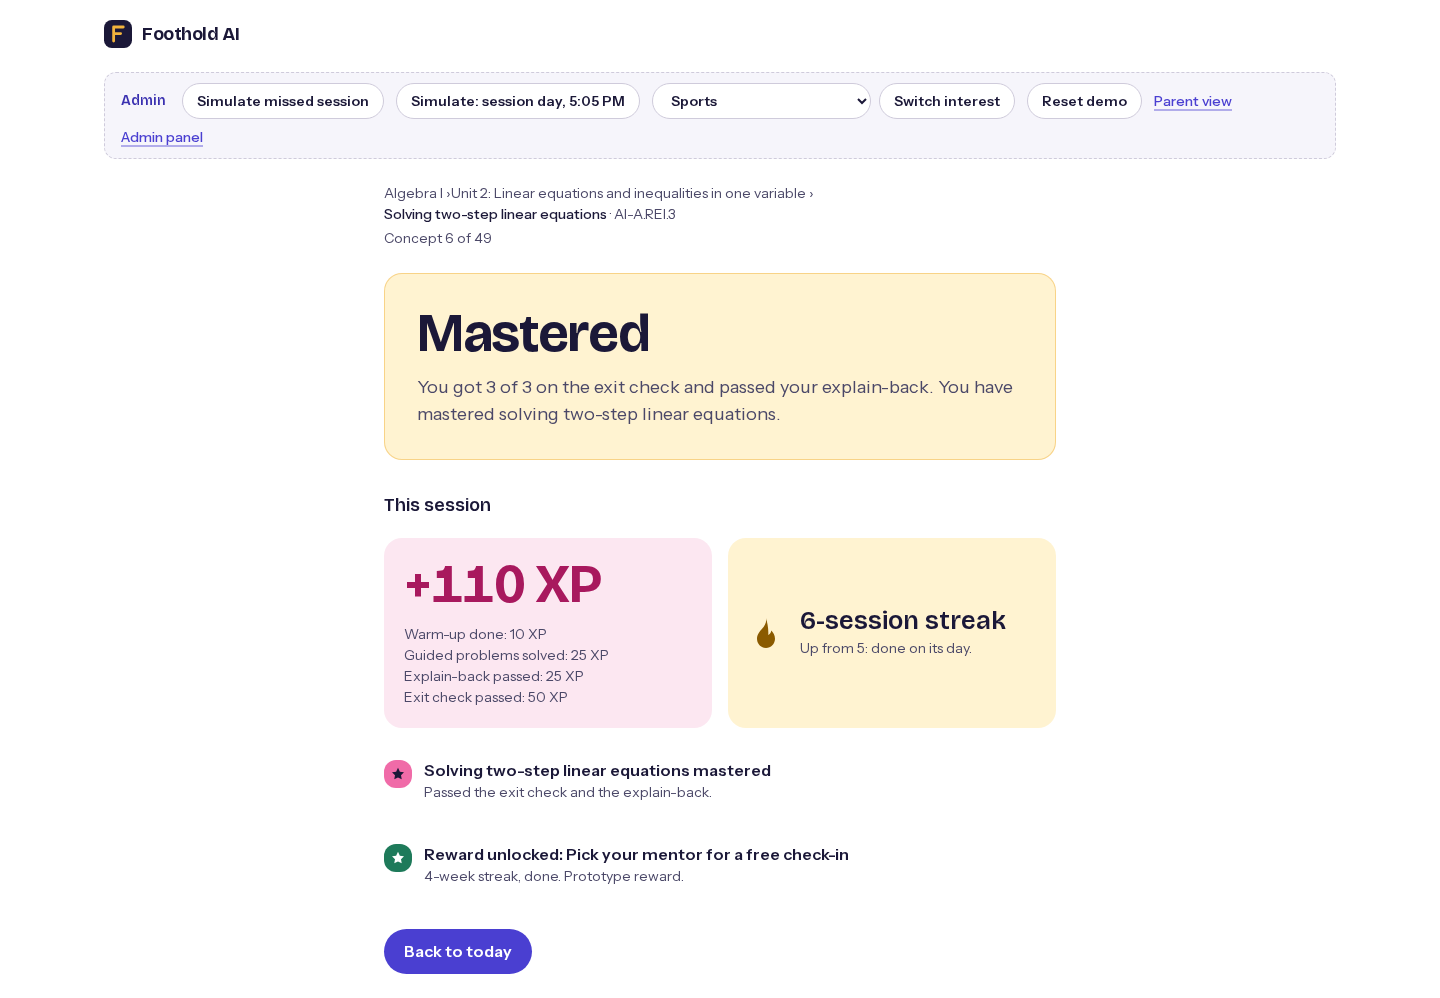
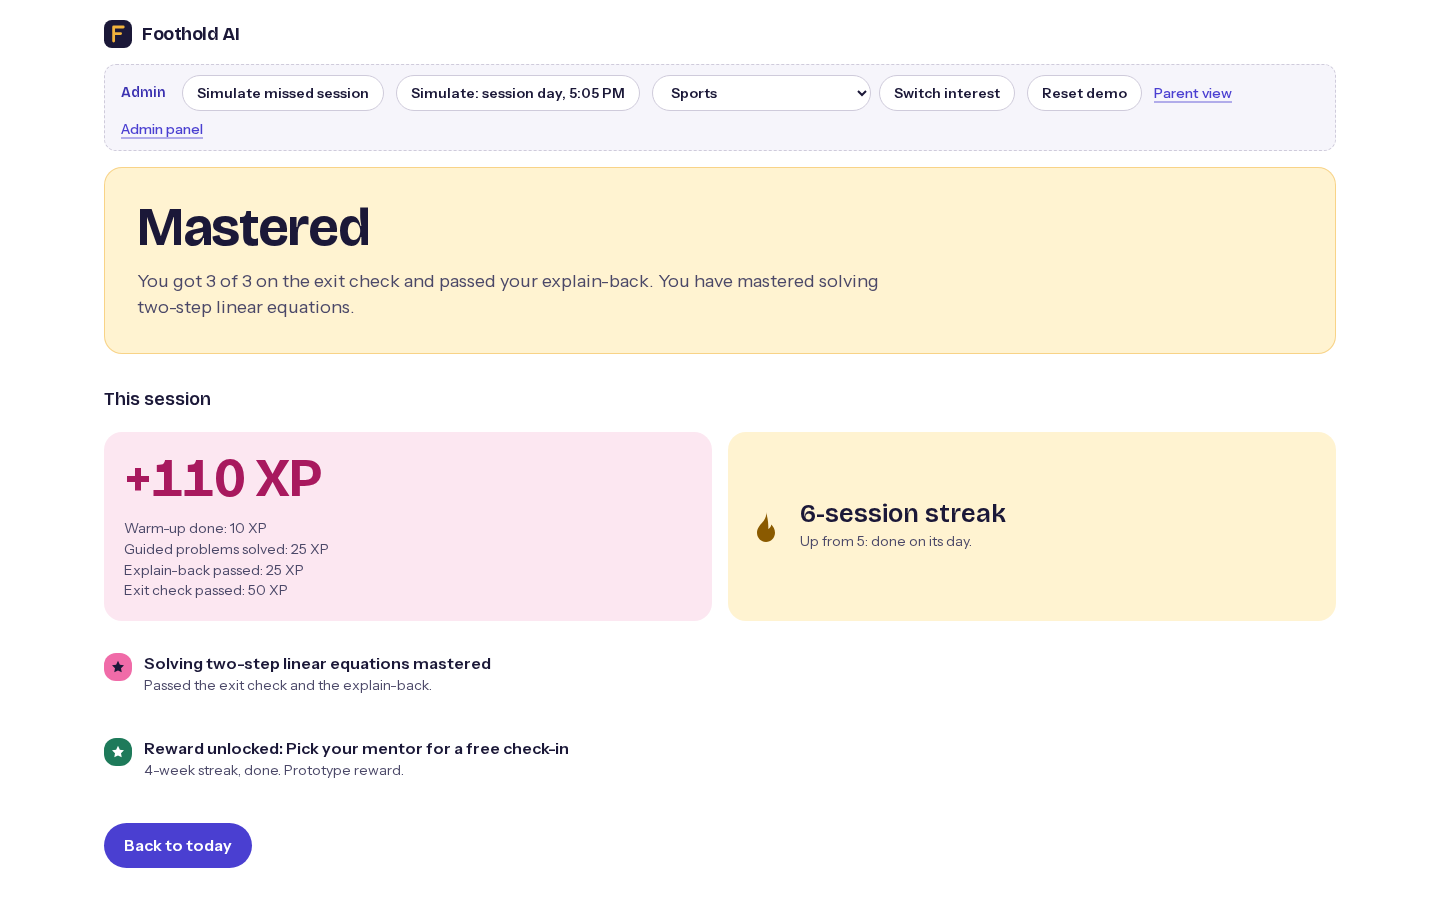
docs: milestone 17 notes, checklist record and the session workspace captures

diff --git a/docs/milestones/17-session-workspace-and-textbook.md b/docs/milestones/17-session-workspace-and-textbook.md
@@ -1,6 +1,6 @@
 # Milestone 17: Session workspace and the two-step equations textbook chapter
 
-Status: not started
+Status: done (2026-10-02)
 Session: one shot
 
 ## Goal
@@ -45,4 +45,23 @@ Start the demo session → the workspace strip shows Unit 2 and the standard →
 
 ## Notes for the next milestone
 
-Filled in at the end of the session.
+- Workspace: `src/app/student/session/[id]/session-runner.tsx` lays the desk out: a strip (the breadcrumb on one line with "Concept 6 of 49", "Back to today", the five-block rail with labels from `sm`, the counter "Problem 2 of 5" and the clock), the block as the page's one h1 (the session title lives in the breadcrumb; the smoke helper `expectBlock` reads level 1; the coach's heading is an h2), the main column with its footer, and the notebook in a 21rem column from `lg`, stacked under the footer below it. The session layout is a flex column (`src/app/student/session/layout.tsx`); the root wordmark header stays above. Problems and the exit panel are plain articles named "Problem", no card; the explain-back keeps its card.
+- One at a time: the page renders every problem of each answered block as a node (`problems`), and the runner keeps a `cursor` per block, started at `firstUnsolved` (now in `src/session/blocks.ts`, which `isBlockComplete` uses too; `isAnsweredBlock` and `isProblemBlock` are exported from there). The footer's forward button is "Next problem" (client, after a correct answer) until the last problem, then "Next" or "Finish" through `moveBlock` as before; the exit check's index is the server's `exitAnswered`. Nothing in `actions.ts` changed except the new `saveNotes`: the exit check's one attempt and server clock, the XP written with the move, and the coach's guided-only rule are untouched (the pre-existing unit tests cover them).
+- Notes: `session_logs.notes` (migration 0012, nullable text), `src/session/notes.ts` (`NOTES_MAX_LENGTH` 2000 and `normalizeNotes`, pure, no zod, because the panel imports it in the browser; the first gate run measured the session route at 242 KB because a zod import in that module had pulled the whole library into the client bundle), `src/db/queries/notes.ts` (`sessionNotes`, `saveSessionNotes`, both scoped by student id and open status), the `saveNotes` action (zod: uuid, normalize, cap). `notes-panel.tsx` saves 800 ms after the last keystroke and on blur, with a status line (Unsaved / Saving… / Saved / a connection message / a closed-session message), keeps `latest`, `saved` and `inFlight` in refs, and hands its flush to the runner through a ref so a block move awaits the save before `moveBlock` and the refresh that remounts the runner; its unmount cleanup sends what is pending. The notes are read by the session page alone and never enter `LoadedSession`, the parent view, alerts, logs or any prompt (`tests/unit/session/notes.test.ts` checks the loaded session carries none of the text). The query runs in the page's `Promise.all` beside `loadSession`, deliberately not folded into `getSession`.
+- Notebook (`notebook.tsx`): a tablist with roving focus (Notes, "Write with a stylus", and in guided practice "Key learnings"), every panel kept mounted and hidden so switching loses nothing. The stylus pad (`stylus-pad.tsx`, loaded on first open) is a canvas that takes pointer strokes as fractions of the surface and redraws on resize; the label says it is a prototype that arrives with the tablet app; nothing is sent or saved. "Key learnings" shows the chapter's points and "Open the chapter" the whole chapter with its jump list in the same panel; the problem and the coach stay where they are. The ruled paper is the `paper-ruled` utility in globals.css (a rule under every line, scrolling with the text), the pad's grid `paper-dotted`.
+- Chapter: types in `src/content/types.ts` (`Chapter`, `ChapterSection`, `ChapterDiagram` as numbers the app draws, `ChapterVideo` with `source`, `url` and the `verified` date, `ChapterMistake`), `defineChapter` in `src/content/chapter.ts` (validates at module load: unique ids, no empty section, exactly one section of five to seven points, lifted to `chapter.keyLearnings`). Content in `s1-chapter.ts` as plain data; the templates moved to `s1-templates.ts` so the chapter can cut its worked examples from the session's own templates without a cycle, and `s1.ts` assembles the session. `defineWorkedExample` now takes `values` and pins the template itself (re-validated through `defineTemplate`, key `<template>:example`), returning `text` and `kind` as well, so the word example reads the neutral story. The three examples: 3x + 5 = 20 from `twoStep`, -4x - 9 = 11 from `negativeCoefficient`, 3x + 4 = 31 (3 notebooks and $4 of pens for $31) from `itemsPlusFee`. `learn.explanation` and `learn.example` stay as they were: the coach's prompt cites them as the lesson in its cached prefix and the red-team transcripts were made against that text, so folding the chapter into the prompt is a coach change for a later milestone, with the red team rerun. The reviewer flagged the duplication; it is deliberate.
+- Chapter UI: `chapter.tsx` (`ChapterContents`, `ChapterSections`, `KeyLearnings`, the CSS-drawn `VideoCard` with `PlayGlyph`), `diagrams.tsx` (balance, number line, undo ladder as inline SVG from the content's numbers, each with a caption and an accessible title), `chapter-reader.tsx` (the learn block: the contents sticky at the left from `xl`, the sections, the gate, and a reveal context), `confirm-read.tsx` (the gate: "I've read this" is enabled only once every worked example has been stepped through to its check, which `worked-example.tsx` reports through that context; the smoke helper `revealExamples` steps through all three). The page renders the chapter once and passes its parts to the runner, which places them in the learn block or in the notebook, so the RSC payload carries the chapter once.
+- Videos: Khan Academy's site answers every page with a bot challenge to a plain fetch, so the three links go to the same videos on YouTube and were checked through YouTube's oEmbed endpoint on 2026-10-02 (200, title and channel matched): Math Antics "Algebra Basics: Solving 2-Step Equations" (balance section), Khan Academy "Solving two-step equations" (undo moves) and "Example: two-step equations" (word example). `docs/content-review.md` lists them with the chapter's section-by-section checks. A fourth candidate (Khan's "Why we do the same thing to both sides: Multi-step equations") verified but is about multi-step equations, so it was left out.
+- Budget: `scripts/lighthouse.mjs` now budgets per route (`budgetFor`): 175 KB for `/student/session/`, 150 KB elsewhere (D48). First-load JS (Lighthouse, gzipped, gate run 2026-10-02): the session route 151.1 KB (was 149.2; the runner, notebook and notes panel are the growth; the stylus pad, coach, explain and exit panels and the end screen load on demand), `/onboarding` 148.6, `/student` and `/parent` 147.0, every other route 141.5. Every route 100/100/100 except the home page's performance at 99 on this run. A plain gzip of the HTML's script tags overstates the session route by about 40 KB because Next ships a core-js polyfill under a `nomodule` script that Lighthouse's Chrome never loads; the gate's number is the one that counts.
+- Tests: `tests/unit/content/chapter.test.ts` (required sections in order, the three examples and their generated steps, the diagrams, at least four mistakes, five to seven one-line key learnings, two or three verified videos, no sentence over 20 words and 13 on average, no dash or exclamation, and `defineChapter`'s refusals), `lesson.test.ts` (pinning from values, the word story, mismatched reasons, values a word template could never draw), `blocks.test.ts` (`firstUnsolved`), `session/notes.test.ts` (normalizing, the cap, scoping, the privacy check). Smoke helpers in `tests/smoke/flow.ts`: `expectProblem`, `solveShown`, `solveBlock(page, id, block, from)`, `openProblem(page, id, block, index)`, `revealExamples`, `readLesson`; the session spec walks the workspace, the chapter, the notes (typed, "Saved", reload), the key learnings and the chapter beside the problem; the demo, parent and onboarding specs open the word problem through `openProblem`. 633 unit tests, 10 smoke tests.
+- Review passes: `/simplify` moved `isAnsweredBlock` and `firstUnsolved` into blocks, split the templates out, made the chapter data with `defineChapter`, had `defineWorkedExample` pin from values, rendered the chapter once, dropped an `idPrefix` and a duplicate example view, returned `""` from `sessionNotes`, resolved the stylus pen once per resize, shared one loop between the smoke solve helpers, and added `PlayGlyph`; skipped a shared where-predicate across `sessions.ts` (outside the diff) and a status-line primitive. `/code-review high` found the notes save racing the move's refresh (fixed with the flush), the read gate no longer waiting for the examples (fixed with the reveal context), and a tap on the pad drawing nothing (fixed); skipped folding the chapter into the coach's lesson text (above), a server-component reader (it now holds the reveal state), and reading notes only for open sessions (one cheap parallel read). `/security-review` found nothing: the new write and read are scoped by student id and open status with parameterized predicates, no other query selects the column, no raw HTML, every video href is a literal.
+- Screenshots regenerated with `npm run screenshots` (the script's heading expectations moved to level 1): `docs/screenshots/2-session-coach.png` and `deck/student-session.png` show the workspace at guided practice with the coach open and the notes beside it.
+- Left: the chapter exists for one concept; a second chapter is a `defineChapter` call and a `SessionContent` entry. The chapter's contents list has no scroll-spy. Browsers without the student cookie act as the demo student, so the demo student's notes are shared between anonymous visitors of the public URL (the pre-existing demo identity model; coach turns behave the same way). The stylus pad's strokes last only until the page reloads. The admin ribbon and the five-line breadcrumb take most of a phone's first screen on the session page. The deployed app needs `scripts/deploy.sh` to pick up migration 0012.
+
+### Checklist record (docs/memo/eval/vibe-checklist.md)
+
+Checked on the session page at 1440 and 375 (captures taken during the build; `docs/screenshots/2-session-coach.png` is the committed one). Items 1, 2 (six sizes: 12, 14, 16, 18, 21, 26; one h1, the block label; h2 chapter title and coach; h3 sections), 3 (chapter prose at `max-w-prose`), 4 (counter and clock tabular), 5 (no eyebrows; the only numbering is the blocks, the problems and the steps, all sequences), 6 and 7 (one accent, one gray family; the course tint for the diagrams and the example rule), 10 (no card in the main column; the notebook is the one tinted surface; the explain-back keeps its card), 12 (Tailwind's scale), 13 (no horizontal scroll at 375, measured; rail labels hidden below `sm`), 17 and 18 (every tab, button and link has hover, press and focus; the notes field's label is for assistive technology, the tab reads "Notes"), 19 ("Next problem", "I've read this", "Open the chapter", "Back to key learnings", "Clear the page"), 20 (no banned words; the test holds the chapter to no dash), 22 and 23 (no entry motion; transitions on color only), 24 (one glyph set; the play mark joined it), 25 (the stylus pad is labelled a prototype in the app's tokens), 26 (the breadcrumb, "Back to today", the skip link).
+
+### Gate
+
+`scripts/gate.sh` exit 0 on 2026-10-02: typecheck, lint (zero warnings), 633 unit tests, production build, 10 smoke tests, Lighthouse 100/100/100 on 15 of 16 routes and 99/100/100 on the home page. First-load JS as above; the session route 151.1 KB against the 175 KB budget (D48). The 50 ms engine timing test passed first time. A first full run failed only on the session route's budget (242.3 KB, zod in the client bundle), fixed before the reviews.
